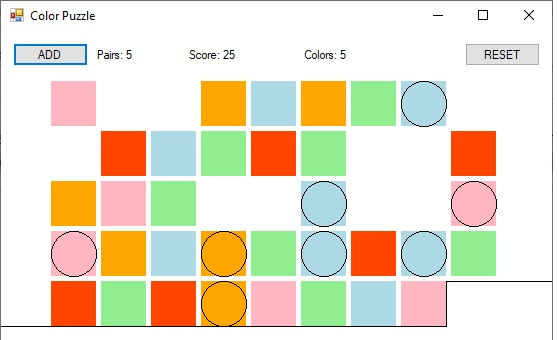
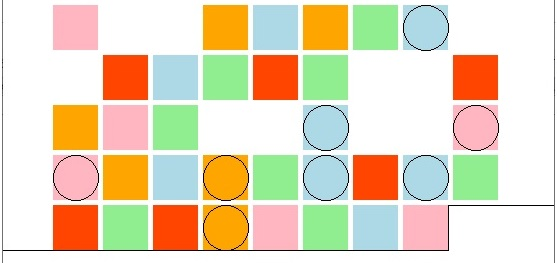
правки README.md

diff --git a/README.md b/README.md
@@ -1,19 +1,17 @@
-# ColorPuzzleGame
-
 # Суть игры.
 
-1. Игровое поле в начале заполнено цветными квадратами.
+1. В начале игры поле заполнено цветными квадратами.
 Кружками обозначены тайлы, которые можно *сократить*.
 
 ![Начало игры](Screens/screen_5.jpg)
 
-2. Если не осталось ни одного тайла, обозначенного кружком, значит больше нечего сокращать.
- Следует нажать кнопку "ADD"
+2. Сокращенные тайлы исчезают с игрового поля.
+После того, как не осталось ни одного тайла для сокращения, следует нажать кнопку "ADD"
 
 ![Игровое поле после сокращения](Screens/screen_6.jpg)
 
-3. После нажатия "ADD" на игровое поле добавляется такое же количество тайлов с теми же цветами (если читать слева направо сверху вниз).
-Таким образом количество тайлов увеличилось вдвое.
+3. После нажатия "ADD" на игровое поле добавляется дополнительные тайлы в том же количестве и с теми же цветами (если читать слева направо сверху вниз).
+Таким образом количество тайлов удваивается.
 Кружками обозначены тайлы, которые снова можно сократить.
 
 ![Игровое поле после добавления новых тайлов](Screens/screen_7.jpg)
@@ -43,7 +41,7 @@ Score - количество очков.
 
 После сокращения каждой пары добавляется количество очков равное количеству имеющхся цветов на игровом поле.
 В начале игры количество цветов равно 5. Поэтому за каждую сокращенную пару дается 5 очков. 
-В ходе игры некоторые цвета будут выходить из игры. 
+По мере прохождения некоторые цвета будут выходить из игры. 
 Соответственно, количество очков, которые даются за одну пару, будет постепенно сокращаться.
 
 
